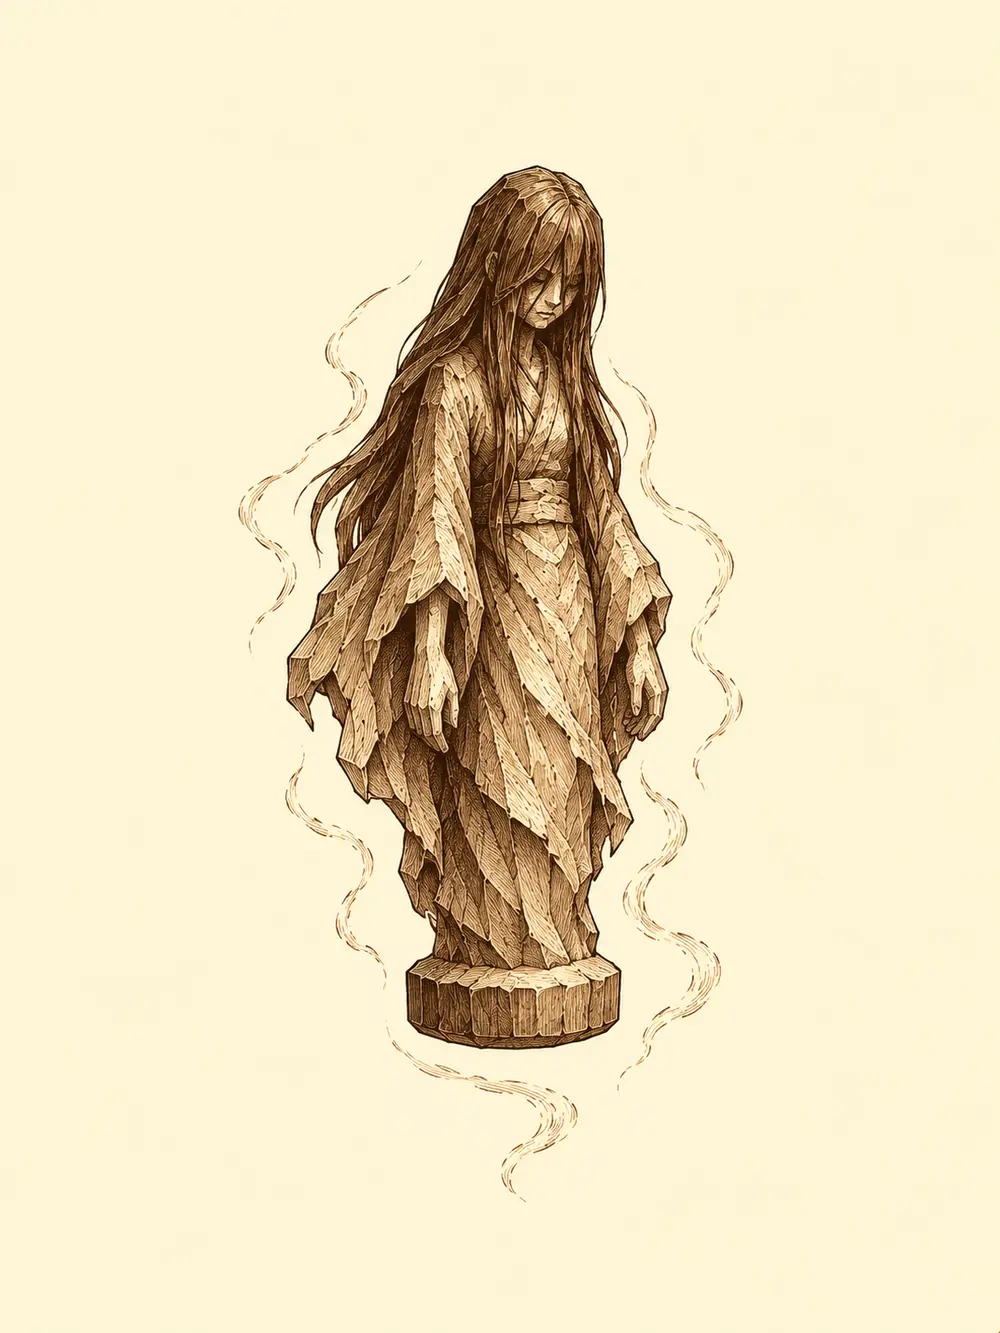
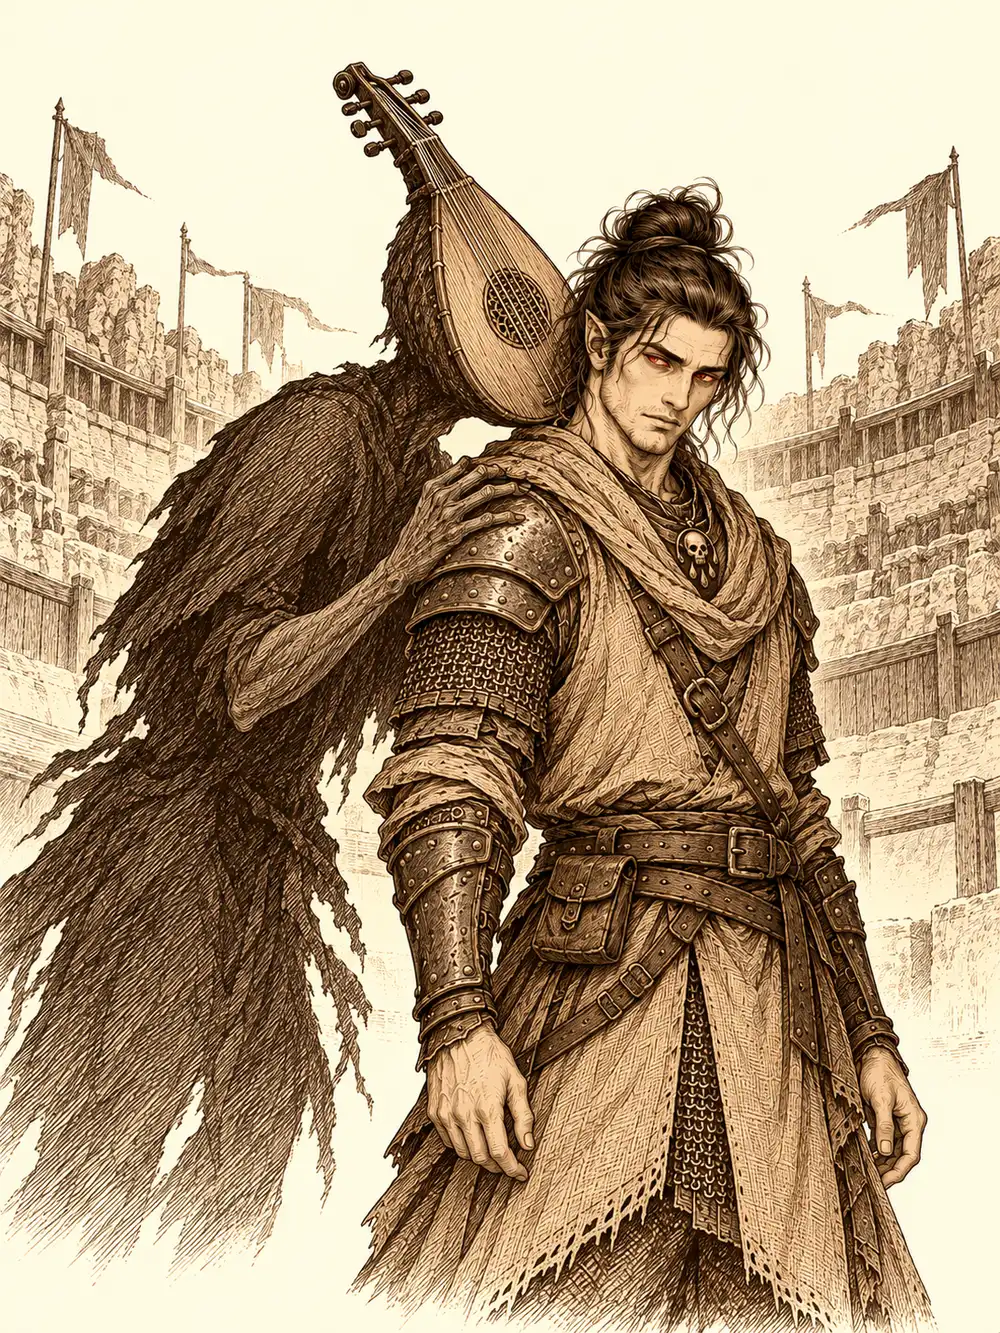
feat: Kuroto plates for chapters 61-70 and stronger plates for 18, 27, 28
Plates 62 and 69 recoloured to the sepia ramp (originals contained red).

Claude-Session: https://claude.ai/code/session_015drHjnJFACoiJ73CEVn1UU

diff --git a/novela/kuroto/028.html b/novela/kuroto/028.html
@@ -136,7 +136,7 @@
 <p>Fue una noche larga. Hayate estrenó el carcaj del shogun: la flecha salió de la cuerda envuelta en un relámpago y se clavó en un zombi con un chasquido azul. Guxi barría a los muertos con fuego y proyectiles. Cleo se abrió paso calle abajo. Romu empujaba a los enemigos lejos de sí y se curaba las heridas sobre la marcha, y Bill y Zia sostenían los otros frentes, uno con el arco y la otra cuchillo en mano, desde las sombras.</p>
 <p>Los dos músicos no se soportaban, pero los dos trabajaban. El enano le dio a uno de los suyos un aliento de fuego para escupirlo contra los muertos. Hiki, cuando un compañero erraba el golpe, le concedía con unos acordes otra oportunidad, y repartía ánimo entre quienes más lo necesitaban. Se lanzaban miradas por encima de la refriega. Ninguno dejaba de tocar.</p>
 <p>Los gatos eran lo peor. Los pequeños se escondían a la vista de todos y, cuando atacaban, lo hacían con las dos colas; uno de ellos azotó a Hiki y lo dejó paralizado, rígido como un poste en mitad de la calle. Los grandes volaban. Uno de ellos subió hasta el tejado donde Hayate se creía a salvo y lo atacó con las garras, y el arquero tuvo que envolverse en una protección sagrada que obligaba a cualquiera a pensárselo dos veces antes de golpearlo.</p>
-<figure class="novela-plate" data-novela-plate><img src="../../assets/novela/lamina-028.webp" alt="Ilustración: Hayate y el bakeneko, transformado en una copia alada del arquero, se agazapan sobre un tejado." width="1200" height="1600" loading="lazy"><figcaption>Imitó su postura, sus alas, su cara</figcaption></figure>
+<figure class="novela-plate" data-novela-plate><img src="../../assets/novela/lamina-028.webp" alt="Ilustración: Dos Hayate idénticos, con alas y arcos, permanecen agazapados en un tejado." width="1200" height="1600" loading="lazy"><figcaption>dos Hayate agazapados uno junto al otro</figcaption></figure>
 <p>Sirth, rodeado y medio desangrado, se defendía con sus espíritus y con el látigo, que se volvía negro al restallar. Uno de los gatos gigantes pasó demasiado cerca de él. Los espíritus le corroyeron la piel, se le pudrió el pelo a jirones, y la criatura cayó al suelo medio deshecha. En ese mismo instante, a varios de los zombis se les apagaron los ojos. El morado se extinguió como una vela al soplarla, y los cuerpos se desplomaron, inertes. Eran solo cadáveres otra vez.</p>
 <p>Los gatos los estaban controlando.</p>
 <div class="novela-scene-break" role="separator" aria-label="Cambio de escena"><span aria-hidden="true">✦</span></div>

diff --git a/novela/kuroto/027.html b/novela/kuroto/027.html
@@ -135,7 +135,7 @@
 <p>En el centro de la arena apareció Sota, el presentador, con un tubo enorme pegado a la boca que hacía retumbar su voz por todo el estadio.</p>
 <p>&quot;¡Señoras y señores! ¡El torneo de Sho de este año presenta a la nueva adquisición del shogun, los cazadores de Ukio, que lucharán contra terribles yokai para demostrar su valía! ¡Si no sobreviven, morirán! ¡Y si deciden abandonar, serán desterrados y despojados de todos los favores del shogun!&quot;.</p>
 <p>Aquello no lo decía la carta.</p>
-<figure class="novela-plate" data-novela-plate><img src="../../assets/novela/lamina-027.webp" alt="Ilustración: Una figurilla tallada con forma de mujer flota sobre el fondo crema." width="1200" height="1600" loading="lazy"><figcaption>una figurilla con la forma de una mujer pequeña</figcaption></figure>
+<figure class="novela-plate" data-novela-plate><img src="../../assets/novela/lamina-027.webp" alt="Ilustración: Una criatura con un laúd por cabeza susurra a Sirth, cuyos ojos se enrojecen." width="1200" height="1600" loading="lazy"><figcaption>Cuando se volvió, tenía los ojos rojos</figcaption></figure>
 <p>Entraron cuatro: Hayate, Guxi, el enano y Sirth. A cada uno le entregaron dos pociones de curación de las buenas. Entre oleada y oleada, les explicaron, solo tendrían tiempo para recuperar el aliento. La arena estaba sembrada de rocas altas y tenía un estanque profundo en el centro. Hayate se posó en lo alto de una roca. Guxi, a su lado, plantó la torreta.</p>
 <div class="novela-scene-break" role="separator" aria-label="Cambio de escena"><span aria-hidden="true">✦</span></div>
 <p>Los primeros fueron tres kappa. Uno se sumergió nada más aparecer y desapareció bajo la superficie. Hayate abatió al primero a flechazos y se puso a buscar al que buceaba. La torreta de Guxi escupía disparos, la magia de Sirth corroía la piel verdosa de las criaturas y el enano alternaba la risa con el estoque nuevo. Uno de los kappa se encerró en su caparazón y aguantó más de lo que debía, pero cayeron los tres. Decidieron seguir sin descansar del todo, y Hayate ayudó a Guxi a subir la torreta a lo alto de una roca.</p>

diff --git a/novela/kuroto/068.html b/novela/kuroto/068.html
@@ -147,6 +147,7 @@
 <p>Gur se metió en el agua. El agua se movió.</p>
 <p>Se levantó delante de él una forma hecha de río, un elemental, una masa de corriente con brazos que lo golpeó de lleno. Ermitaño le lanzó al bárbaro un escudo de fe y lo curó cuando hizo falta. Desde la orilla, otro compañero lo hizo crecer hasta el doble de su tamaño. Gelbreak le cantaba al elemental cosas que le dolían por dentro y lo empujaban hacia atrás. Gur le descargó el hacha una y otra vez. Al final fue Ermitaño quien lo deshizo, y el elemental se disolvió en el río como si nunca hubiera estado allí.</p>
 <p>Gur, todavía enorme, cargó con los otros tres y los cruzó. La magia se le iba acabando mientras escalaba la otra orilla: notaba cómo encogía a cada palmo que subía, y la cuerda con él. Los compañeros tiraron desde arriba. Llegó justo.</p>
+<figure class="novela-plate" data-novela-plate><img src="../../assets/novela/lamina-068.webp" alt="Ilustración: Una niña toca una puerta mientras sostiene una cometa que tira de ella hacia arriba." width="1200" height="1600" loading="lazy"><figcaption>una cometa que volaba alta sobre su cabeza</figcaption></figure>
 <p>Dentro de la fortaleza los esperaba un muerto. Un soldado, casi descompuesto, con una nota en el bolsillo que hablaba de problemas en aquel lugar. Más allá, en un jardín, había dos arañas grandes hablando entre ellas en lengua común. Gelbreak les habló en la lengua de las profundidades y no le entendieron. Decidió que no merecía la pena seguir intentándolo. Una de ellas llegó a decir que alguien se estaba alimentando de lo que pasaba allí, pero ya era tarde. El drow acabó con la primera mediante una magia de muerte que la dejó seca. Gur se empeñó con la otra hasta partirla por la mitad de un hachazo y acabó cubierto de baba de araña, humeando.</p>
 <p>&quot;No era ninguna competición&quot;, dijo. &quot;Y te he ganado&quot;.</p>
 <p>Ermitaño se acercó a los cadáveres y recogió con cuidado dos tarros de su veneno.</p>

diff --git a/novela/kuroto/066.html b/novela/kuroto/066.html
@@ -148,6 +148,7 @@
 <p>&quot;Comételas antes de que se pongan malas. Y no se las des a tus amigos. Son todas para ti&quot;.</p>
 <p>Aka se acercó al castillo y habló con los guardias. Le contaron un rumor: los generales planeaban levantar un asentamiento en el sur, junto a las montañas, antes de la tierra muerta donde decían que estaba encerrado Otakemaru. Ella se ofreció para lo que hiciera falta, aunque fuera para llevar provisiones.</p>
 <p>Ermitaño y Shigeru, mientras tanto, entraron en un edificio con un cartel que ninguno de los dos supo interpretar. Dentro había mujeres muy arregladas, almohadones, incienso y un ambiente que no tardaron en entender. Salieron enseguida, explicando que no tenían dinero. Lo cual era verdad.</p>
+<figure class="novela-plate" data-novela-plate><img src="../../assets/novela/lamina-066.webp" alt="Ilustración: Aka dispara cuatro flechas a una mujer arácnida en la arena." width="1200" height="1600" loading="lazy"><figcaption>Fueron cuatro. Las cuatro acertaron.</figcaption></figure>
 <p>La puerta siguiente era una librería. Un anciano encorvado los atendió entre montones de papeles. Cuando le contaron que venían de buscar los templos de los cuatro guardianes, se le cerró la cara y los miró con sospecha; hubo que explicarle que eran cazadores, que trabajaban para el shogun, para que se relajara.</p>
 <p>&quot;Disculpad. Tengo que defender a esta gente&quot;.</p>
 <p>Shigeru le preguntó si tenía algo sobre construcciones, sobre muros. El anciano señaló una pila de papeles y el monje se pasó un buen rato revolviendo hasta dar con unas notas sueltas, con dibujos, sobre contrapesos y refuerzos para que un muro aguantara más. Preguntó cuánto costaban.</p>

diff --git a/novela/kuroto/063.html b/novela/kuroto/063.html
@@ -134,6 +134,7 @@
 <p>La sala siguiente parecía un despacho, con un escritorio, fogones apagados, jaulas y una mesa llena de material de alquimia tirado y podrido. Ikari notó algo húmedo que le caía en el hombro. Una baba.</p>
 <p>Miró hacia arriba.</p>
 <p>Colgadas del techo, como arañas, había tres criaturas. Estaban pegadas a la piedra por las palmas de las manos y los pies, y tenían unas lenguas larguísimas, llenas de pústulas, que salieron disparadas hacia los cazadores antes de que nadie más hubiera levantado la vista. Ikari fue el único que no se dejó sorprender.</p>
+<figure class="novela-plate" data-novela-plate><img src="../../assets/novela/lamina-063.webp" alt="Ilustración: Jin observa a su hermano espectral revivir una matanza en un laboratorio." width="1200" height="1600" loading="lazy"><figcaption>Era su hermano</figcaption></figure>
 <p>Las lenguas golpeaban desde lejos y escupían algo ácido. Las criaturas tenían garras, y el olor que soltaban daba náuseas y envenenaba a quien lo respiraba demasiado tiempo. Shiru derribó a una del techo y la hizo atacar a otra en lugar de a él. Jin y Ikari alternaban acero y fuego, y Ermitaño golpeaba con su martillo cuando no estaba curando a alguien.</p>
 <p>Cuando la última cayó, entendieron por qué olían así. Estaban hechas de excrementos. Al morir, se deshicieron, y los cazadores se quedaron hundidos hasta los tobillos en aquello.</p>
 <div class="novela-scene-break" role="separator" aria-label="Cambio de escena"><span aria-hidden="true">✦</span></div>

diff --git a/novela/kuroto/064.html b/novela/kuroto/064.html
@@ -138,6 +138,7 @@
 <p>&quot;Esa presa era mía&quot;.</p>
 <p>Higeki, ya en pie, inmovilizó a dos enemigos con la voz. Duró poco. El templo entero tembló, el suelo se sacudió bajo sus pies y las concentraciones se rompieron una tras otra.</p>
 <p>Genbu, mientras tanto, se había ocupado del oni. Lo vieron de cerca por primera vez: una tortuga enorme, de caparazón antiguo, con una serpiente enroscada al cuerpo que tenía vida propia. Fue la serpiente la que mordió al oni, y de un solo bocado acabó con él. Luego se volvió. Ermitaño era quien estaba más cerca, el que acababa de curar a la tortuga junto con todos los demás, y fue a él a quien mordió.</p>
+<figure class="novela-plate" data-novela-plate><img src="../../assets/novela/lamina-064.webp" alt="Ilustración: Una serpiente viva, enroscada a una tortuga enorme, muerde a un oni en el agua." width="1200" height="1600" loading="lazy"><figcaption>Fue la serpiente la que mordió al oni</figcaption></figure>
 <p>&quot;¡Que no soy enemigo!&quot;, protestó el clérigo. &quot;¡Que te acabo de curar!&quot;.</p>
 <p>Probaron con varias lenguas. La de las bestias no sirvió de nada. Tampoco el élfico. Fue Katari quien dio con la buena: le habló en celestial, la lengua de las criaturas del cielo. La serpiente detuvo la cabeza en el aire y la tortuga contestó.</p>
 <p>&quot;¿A qué venís, entonces? ¿A demostrar vuestro valor? Si queréis mi bendición, demostradme que la merecéis&quot;.</p>

diff --git a/novela/kuroto/069.html b/novela/kuroto/069.html
@@ -151,6 +151,7 @@
 <p>Delante de ella, de la oscuridad del techo o de ninguna parte, se formó algo. No llegó a verlo entero. Solo oyó la voz.</p>
 <p>&quot;Fuera. Es mío&quot;.</p>
 <p>Algo la golpeó por dentro de la cabeza, algo que la superaba de un modo que no había sentido jamás. Salió despedida hacia atrás y chocó contra sus compañeros. El mundo de los sueños se sacudió. Durante un instante vieron muchos sueños a la vez, mezclados unos con otros: un Shigeru joven ayudando en su aldea, una niña rodeada de llamas que se reía, Guxi soñando algo en algún sitio.</p>
+<figure class="novela-plate" data-novela-plate><img src="../../assets/novela/lamina-069.webp" alt="Ilustración: Sirth flota con los brazos en cruz sobre un círculo de sangre que forma una calavera." width="1200" height="1600" loading="lazy"><figcaption>flotaba Sirth con los brazos abiertos en cruz</figcaption></figure>
 <p>Después todo volvió a recomponerse. Y ya no estaban en el templo.</p>
 <div class="novela-scene-break" role="separator" aria-label="Cambio de escena"><span aria-hidden="true">✦</span></div>
 <p>Era un campo de batalla. Estaba arrasado. Había árboles quemados, fuego en todas direcciones y cuerpos tendidos por el suelo. A Katari le dolía la cabeza como si se la hubieran partido. Shigeru le preguntó si estaba bien. Estaba allí con él y con Blaze. Aka no aparecía por ninguna parte.</p>

diff --git a/novela/kuroto/018.html b/novela/kuroto/018.html
@@ -139,7 +139,7 @@
 <p>&quot;Sacadme de aquí&quot;.</p>
 <p>La voz era familiar. Venía de detrás de unos barrotes, a un lado. Era Jin.</p>
 <p>&quot;Todavía estamos a tiempo&quot;, dijo desde su encierro. &quot;Si no terminamos el ritual y no derrotamos a los guardianes, el pueblo va a seguir durmiendo. Yo iba a hacerlo, pero esa criatura que habéis visto se fusionó con el altar&quot;.</p>
-<figure class="novela-plate" data-novela-plate><img src="../../assets/novela/lamina-018.webp" alt="Ilustración: Un cliente dormido tiene media cara en la sopa mientras alguien le levanta la cabeza con cuidado." width="1200" height="1600" loading="lazy"><figcaption>«media cara metida en un cuenco de sopa»</figcaption></figure>
+<figure class="novela-plate" data-novela-plate><img src="../../assets/novela/lamina-018.webp" alt="Ilustración: Jin sostiene una figurilla mientras Kitaro reaparece como hombre a partir de las cenizas." width="1200" height="1600" loading="lazy"><figcaption>Primero una sombra, luego un contorno, luego un hombre</figcaption></figure>
 <p>Sirth se tapó la cara con la mano. Miró a Shiru, miró a Jin, y volvió a mirar a Shiru.</p>
 <p>&quot;Te has propuesto revivir a un muerto tú solo&quot;, le dijo a Jin. &quot;Y no me lo consultas a mí&quot;.</p>
 <p>&quot;No podía contártelo. Me habrías dicho que eso está mal. Quería arreglarlo por mi cuenta&quot;.</p>

diff --git a/novela/kuroto/062.html b/novela/kuroto/062.html
@@ -140,6 +140,7 @@
 <p>Quería que lo siguieran.</p>
 <p>Katari consultó a los espíritus que siempre la acompañaban. Le contaron que aquello era un kodama, uno de esos pequeños espíritus que viven en los árboles viejos y protegen el bosque y a sus animales. Pero también la advirtieron: había algo raro en su esencia. No era un espíritu normal.</p>
 <p>Lo siguieron igualmente, con las armas a mano. Shigeru desenvainó la espada. Kuma le prometió a su discípulo que, si iba a morir, le avisaría con un poco de tiempo.</p>
+<figure class="novela-plate" data-novela-plate><img src="../../assets/novela/lamina-062.webp" alt="Ilustración: Una mujer deforme emerge de un charco oscuro en una cueva." width="1200" height="1600" loading="lazy"><figcaption>salió de otro charco al otro lado de la cueva</figcaption></figure>
 <p>El rastro de sangre seguía al pequeño. Se metieron en un bosquecillo junto a las montañas, cada vez más oscuro, hasta llegar a la boca de una cueva. El pequeño entró, se giró en el umbral, los miró moviendo la cabeza de un modo que no le gustó a nadie y desapareció dentro.</p>
 <p>Ermitaño extendió las manos para sentir la magia de la cueva. Le golpeó una oleada de magia de muerte, fría, que le erizó todos los pelos del cuerpo.</p>
 <p>&quot;Llevad mucho cuidado&quot;.</p>

diff --git a/novela/kuroto/067.html b/novela/kuroto/067.html
@@ -142,6 +142,7 @@
 <p>Desde allí dentro, con algo de magia y su voz, el gallo consiguió que dejaran pasar a sus compañeros. Shigeru y Katari se le unieron en el baño. Katari se convirtió en una araña pequeña y trepó por la pared.</p>
 <p>Ermitaño tenía su propio plan. Se cubrió con un disfraz mágico y adoptó el aspecto de un cliente rico, uno cualquiera, el primero que se le ocurrió. Las recepcionistas lo reconocieron enseguida.</p>
 <p>&quot;¡Señor Antonio! Pase, pase&quot;.</p>
+<figure class="novela-plate" data-novela-plate><img src="../../assets/novela/lamina-067.webp" alt="Ilustración: Un gallo con guitarra vuela frente al sol mientras las ramas se inclinan hacia él." width="1200" height="1600" loading="lazy"><figcaption>se quedó un instante en el aire justo delante del sol</figcaption></figure>
 <p>Resultó que el tal Antonio existía, y que tenía allí invertidas quince mil monedas. Lo condujeron arriba a una reunión.</p>
 <p>Infinito no paraba de canturrear por lo bajo. El guardia lo oyó. Shigeru y él tuvieron que subir las escaleras a toda prisa.</p>
 <div class="novela-scene-break" role="separator" aria-label="Cambio de escena"><span aria-hidden="true">✦</span></div>

diff --git a/novela/kuroto/061.html b/novela/kuroto/061.html
@@ -133,6 +133,7 @@
 <p>&quot;Te pillaré, cervatillo&quot;.</p>
 <div class="novela-scene-break" role="separator" aria-label="Cambio de escena"><span aria-hidden="true">✦</span></div>
 <p>Guxi lo empujó al río con un disparo de su balista, un golpe que lo levantó del suelo y lo dejó caer en el agua. La corriente lo arrastró un trecho. No bastó. El perro de sombras corrió hacia él por la orilla, pisó una mina, la mina estalló y el perro desapareció.</p>
+<figure class="novela-plate" data-novela-plate><img src="../../assets/novela/lamina-061.webp" alt="Ilustración: Shiru, con un cuerno roto entre los dientes, corre y nada en medio de un río." width="1200" height="1600" loading="lazy"><figcaption>se lanzó al agua</figcaption></figure>
 <p>El cazador salió del agua, apuntó el gancho y lo lanzó otra vez. Se enganchó a la pierna de Shiru y el hombre llegó a su lado de un tirón. Esta vez, cuando agarró el cuerno, el cervan no tuvo fuerzas para retenerlo.</p>
 <p>El hombre se lo guardó, se acercó a la cara de Shiru y sonrió.</p>
 <p>&quot;Nos volveremos a ver, muchacho&quot;.</p>

diff --git a/novela/kuroto/070.html b/novela/kuroto/070.html
@@ -159,6 +159,7 @@
 <p>&quot;Me voy a dormir un rato. Mi habitación no va muy bien. El cerrojo. Lo digo por si acaso&quot;.</p>
 <p>&quot;Díselo a Ikari, que repara puertas y cosas&quot;.</p>
 <p>Danifae se marchó con una sonrisa. Gur siguió pegándole al saco.</p>
+<figure class="novela-plate" data-novela-plate><img src="../../assets/novela/lamina-070.webp" alt="Ilustración: Ikari, tanuki encapuchado, sostiene un bastón oscuro tras ennegrecerse su pelaje." width="1200" height="1600" loading="lazy"><figcaption>El pelo se le fue oscureciendo poco a poco</figcaption></figure>
 <p>La drow no fue a su habitación. Fue a la de Jin, al fondo del pasillo, y abrió la puerta sin hacer el menor ruido. Jin dormía con Erk y con Shizuka. Danifae se inclinó sobre él y lo zarandeó.</p>
 <p>&quot;Jin. Jin, despierta&quot;.</p>
 <p>&quot;No puedo más, Kitaro. Quiero cerveza&quot;.</p>
